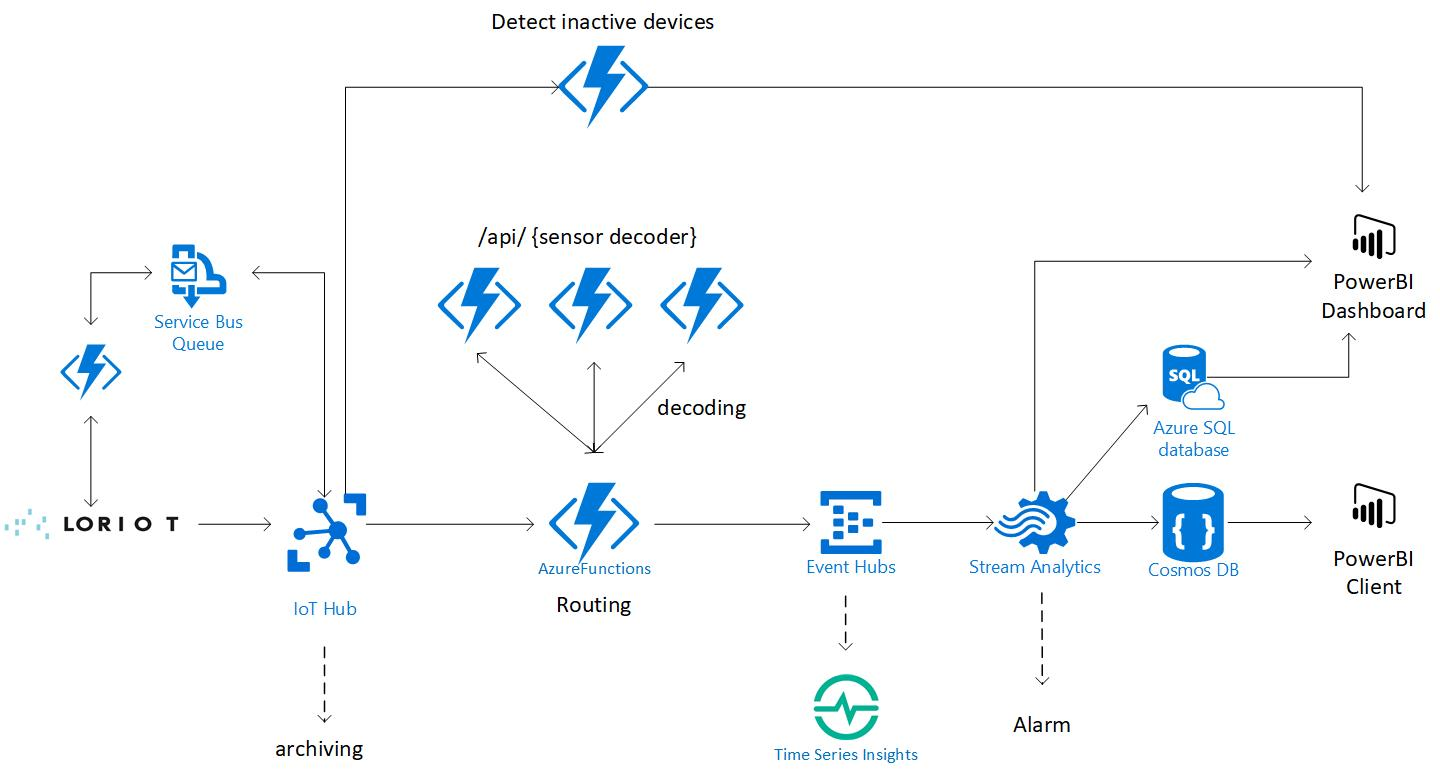
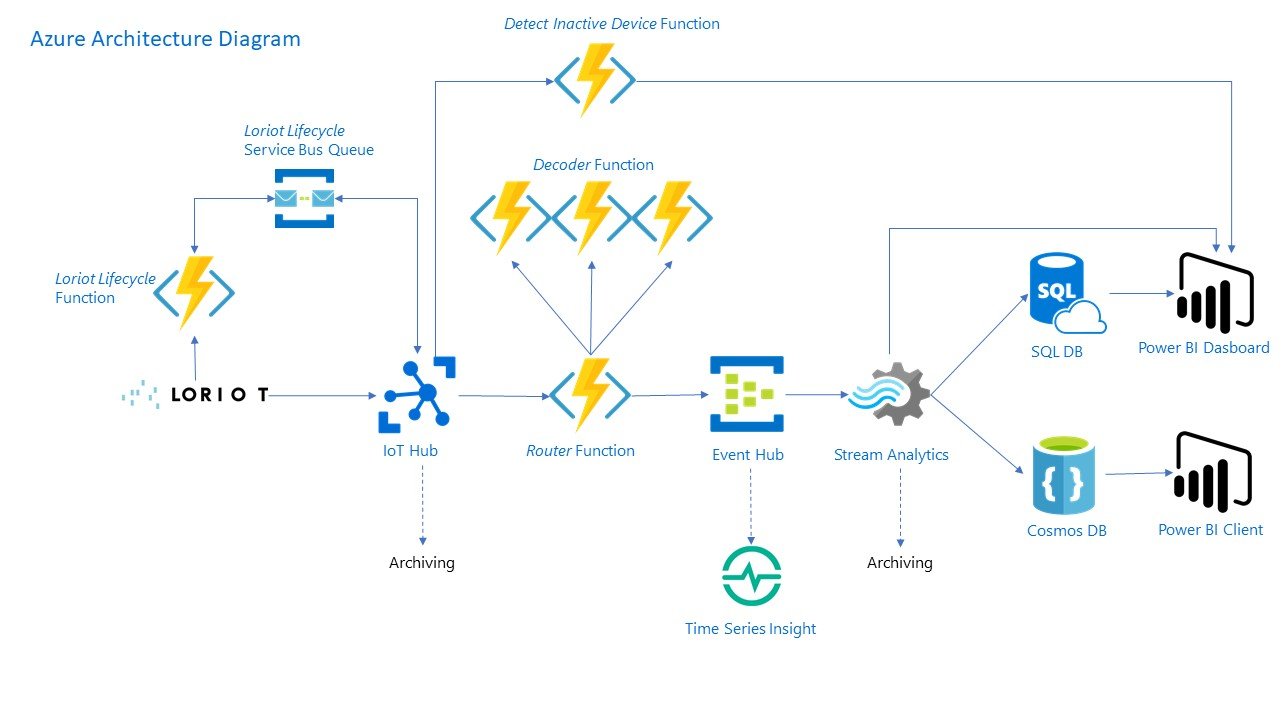
refined documentation

diff --git a/README.md b/README.md
@@ -1,9 +1,7 @@
 # Solution overview
-This solution creates a simply deployable reference architecture in Azure that allows the user to ingest process store and analyze large quantity of sensor data coming in from the Loriot gateway.  This repository offers to Loriot customer an almost ready to use solution that allows them to quickly visualize Lora connected device data. This could be a starting point to a more complex productive solution. (link get started)
+This solution creates a simply deployable reference architecture that allows users to ingest, process, store, and analyze large quantity of sensor data coming in from the [Loriot](#about-loriot) gateway on Microsoft Azure. Loriot customer will be able in a matter of no time to visualize data of their Lora connected devices in near real-time. The proposed solution could be a starting point to a more complex productive solution. 
 
-Loriot provides LoRaWAN software products and software services. With the new tool, customers can now provision the IOT infrastructure out of the Loriot Management Portal into the end customers Azure subscription with almost no configuration.  
-
-The proposed solution allows the end user to provision new IoT devices very quickly into their Azure subscription and synchronize the device provisioning into the Loriot account. Thanks to the Loriot-Azure IoT Hub connector data can be easily collected by the IoT Hub and then decoded through a custom decoding Function. Through the optional Time Series component users can quickly analyze and display sensor data. The solution also implement an example how to store all sensor data to Cosmos DB and the example temperature data to SQL Database. The template alos offer a PowerBI Dashboard with some preconfigured charts including realtime temperature data. Furthermore the PowerBI report is able to detect and display inactive or broken devices.  
+Thanks to this architecture, end users can provision new IoT devices very quickly directly into their Azure subscription and synchronization occur automatically into the Loriot account. Thanks to the Loriot-Azure IoT Hub connector, inbound data from the sensors are collected by the IoT Hub and their payload can be decoded thanks to an extensible system of decoder functions. Solution implements data storage examples by storing sensor data to a SQL database and a Cosmos DB. In terms of visualization, the template includes a PowerBI Dashboard with some preconfigured charts including realtime temperature data and an optional Time Series component allowing quick display of sensor data straight from the IoT Hub. Finally, the PowerBI report is able to detect and display any inactive or broken devices.  
 
 ![Architecture Diagram Loriot](images/Loriot_Architecture.jpg)
 
@@ -23,10 +21,9 @@ az group deployment create --name ExampleDeployment --resource-group YourResourc
 ```
 
 Once the deployment has completed perform the following actions:
-1. navigate to the [Azure portal](https://portal.azure.com) and start the Stream Analytics job manually using the button at the top of the blade. For instructions on how to do this if you have chosen to deploy the Power BI component of the template, please see the [power-bi](power-bi/) folder readme
+1. navigate to the [Azure portal](https://portal.azure.com) and start the Stream Analytics job manually using the button at the top of the blade. For detailed instructions, please see the [power-bi](power-bi/) folder readme
 2. Add your new IoT Devices in Azure IoT Hub, the devices will be automatically provisioned into the Loriot Portal
-3. Add the Device Twin Meta Data as specified [here](#device-twin-setup) .
-
+3. Add the Device Twin Meta Data as specified [here](#device-twin-setup).
 
 ## Solution Content
 
@@ -70,7 +67,6 @@ Once the deployment has completed perform the following actions:
 [About Loriot](#about-loriot)
 
 
-
 ## IoT Hub
 Azure IoT Hub is a scalable, multi-tenant cloud platform (IoT PaaS) that includes an IoT device registry, data storage, and security. It also provides a service interface to support IoT application development.
 
@@ -87,7 +83,7 @@ In this project you will find the following functions:
 
 ### Router Function
 
-The router function is triggered by messages coming from the IoT Hub (connection defined in the EVENTHUB_ROUTER_INPUT environment variable) and routes them to the appropriate decoder.
+The *router* function is triggered by messages coming from the IoT Hub (connection defined in the EVENTHUB_ROUTER_INPUT environment variable) and routes them to the appropriate decoder.
 
 Routing is done based on the *sensordecoder* property present in the device twins tags in the IoT Hubs (connection defined in the IOT_HUB_OWNER_CONNECTION_STRING environment variable) - see [Device Twin Setup](#device-twin-setup) for more information. The function can access this information using the *iothub-connection-device-id* message property automatically added by the IoT Hub.
 In a nutshell, routing takes the following strategy:
@@ -104,17 +100,26 @@ The output of the function will be directed to an Event Hub (connection defined 
 
 ### Setup Function
 
-The setup function initialises the Cosmos DB collection and the SQL table needed by the pipeline. The function is automatically triggered at the end of the execution of the ARM template. The function uses environment variables DOCUMENT_DB_NAME, DOCUMENT_DB_ACCESS_KEY and SQL_DB_CONNECTION to connect to the two resources.
+The setup function initializes the Cosmos DB collection and the SQL table needed by the pipeline. The function is automatically triggered at the end of the execution of the ARM template. It won't be called at later stage and is therefore not part of the standard application architecture. The function uses environment variables DOCUMENT_DB_NAME, DOCUMENT_DB_ACCESS_KEY and SQL_DB_CONNECTION to connect to the two resources.
 
 If the collection or table already exist, the function will return without doing anything.
 
 ### Decoder Function
 
-Decoder functions perform the decoding of the sensor raw data payload. By default our solution provide you with 3 example decoder, but the system is built to be easily extensible. Additional decoders can be hosted anywhere and must simply be HTTP REST accessible and be routed correctly by the [router function rules](#router-function).
+Decoder functions perform the decoding of the sensor raw data payload. By default, our solution provide you with 3 example decoder, but the system is built to be easily extensible. Additional decoders can be hosted anywhere and must simply be HTTP REST accessible and be routed correctly by the [router function rules](#router-function).
+
+Currently the decoder functions are written with no authentication required (Authorization.Anonymous in the function declaration). Although adding authentication at deploy time proved quite complicated, it is possible to add authentication to it after deployment easily by just adding an environment variable and a reference to the function code in the router function.
 
 ### Detect Inactive Devices Function
 
+This function aims at detecting devices that stopped transmitting for a certain time. The function calls the IoT Hub and check all the device that were inactive during more than the allowed time window.
+
 ### Loriot Lifecycle Function
+
+The lifecycle functions aimed at providing a synchronization between the Azure IoT Hub and the Loriot device portal.
+
+- *ImportDevice* Function import all devices present from the Loriot device portal to the IoT Hub. It will ensure no duplicate are created. This function exists as a timer function to ensure regular syncing of new devices (*ScheduledImportDevice*) and a http triggered function named *ImportDevice* that could be used during development, testing or linked to be triggered by your custom UI.
+- *ExportDevice* Function handle creation and deletion of devices event to the Loriot Portal. The messages are taken from the Device Lifecycle queue.
 
 ### Functions Environment variables
 
@@ -154,7 +159,7 @@ HostName=something.azure-devices.net;SharedAccessKeyName=iothubowner;SharedAcces
 
 #### EVENT_HUB_ROUTER_INPUT
 
-The connection string of the IoT Hub's Event Hub, used as trigger on the RouterFunction to send the messages to the appropriate decoders.
+The connection string of the IoT Hub's Event Hub, used as trigger on the *Router* Function to send the messages to the appropriate decoders.
 
 ```
 Endpoint=Endpoint=sb://something.servicebus.windows.net/;SharedAccessKeyName=iothubowner;SharedAccessKey=UDEL1prJ9THqLJel+uk8UeU8fZVkSSi2+CMrp5yrrWM=;EntityPath=iothubname;
@@ -188,9 +193,15 @@ User ID=username;Password=password;MultipleActiveResultSets=False;Encrypt=True;T
 
 #### DEVICE_LIFECYCLE_CONNECTION_STRING
 
+The connection string of the service bus queue carrying messages syncing between the Loriot IoT Hub and the device portal.
+
 #### DEVICE_LIFECYCLE_QUEUE_NAME
 
+The name of the service bus queue carrying messages syncing between the Loriot IoT Hub and the device portal.
+
 #### DEVICE_LIFECYCLE_IMPORT_TIMER
+
+The timer value that will call the *ScheduledImportDevice* function 
 
 ## Testing 
 We do provide a ready to use testing setup in order to test and understand the infrastructure you deployed in a matter of minutes.
@@ -198,7 +209,6 @@ We do provide a ready to use testing setup in order to test and understand the i
 ### Device Emulation
 
 Provided with this project is a script that can be used to generate device messages to test the pipeline in the absence of a real device. For more information, see the [test](test/) folder.
-
 
 ## Time Series Insights 
 
@@ -212,16 +222,15 @@ Deployment of TSI is fully optional and can be toggled on and off without impact
 
 Azure Cosmos DB is Microsoft's globally distributed, multi-model database. With the click of a button, Azure Cosmos DB enables you to elastically and independently scale throughput and storage across any number of Azure's geographic regions.
 
-Cosmos DB is used on our architecture to provide data to the offline client [@Anita]. 
+This solution instantiate Cosmos DB with a documentDB API, you can access your data using SQL like queries. It is in use in our default architecture to provide data to the offline powerBI client. 
 
 ## Azure SQL database
 
 Azure SQL Database is the intelligent, fully-managed relational cloud database service built for developers. Accelerate app development and make maintenance easy and productive using the SQL tools you love to use. Take advantage of built-in intelligence that learns app patterns and adapts to maximize performance, reliability, and data protection. 
-[@Anita]
 
 ## Power BI
 
-This deployment also provides (optional) Power BI visualisation functionality as a starting point for data analysis (both realtime and historical). For instructions on how to make use of this capability please look in the [power-bi](power-bi/) folder.
+This deployment also provides (optional) Power BI visualization functionality as a starting point for data analysis (both realtime and historical). For instructions on how to make use of this capability please look in the [power-bi](power-bi/) folder.
 
 ## About Loriot
 
@@ -230,3 +239,5 @@ The core product today is software for scalable, distributed, resilient operatio
 Due to their positioning in the LoRa ecosystem as both software provider and network operator, they are in direct contact with LoRa hardware producers and integrate many of their solutions directly with their services.
 The collaboration allows them to offer not only network software, but a complete end-to-end solution for a real-world IoT application, including gateway and sensor hardware.
 Their typical customers are small and medium enterprises in the Internet of Things business, cities, municipalities and wireless network operators.
+
+
